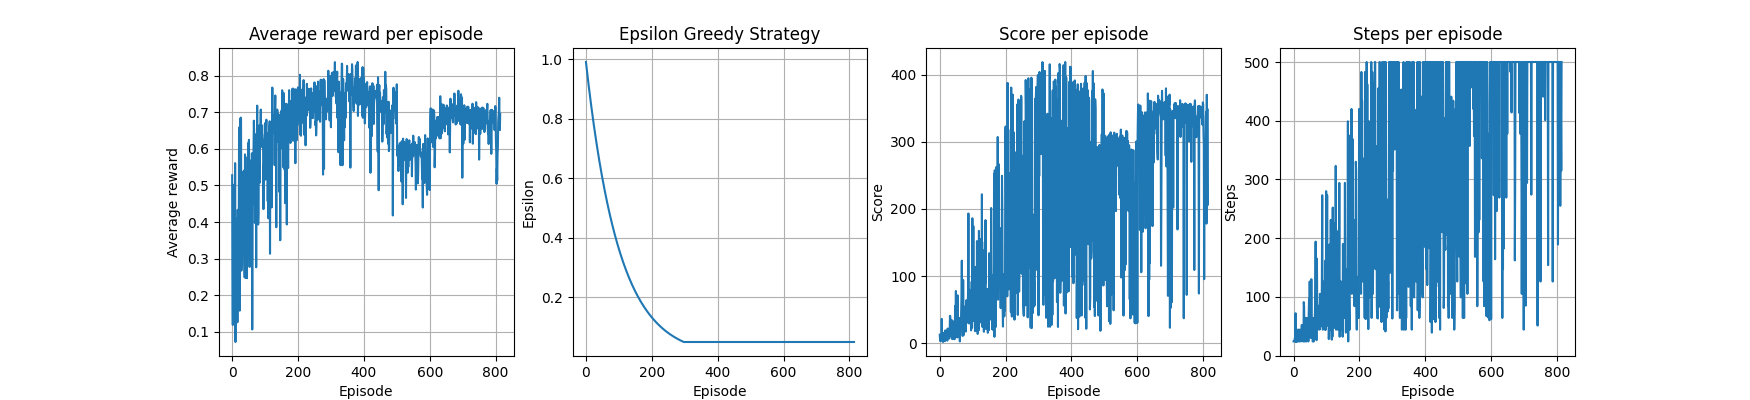
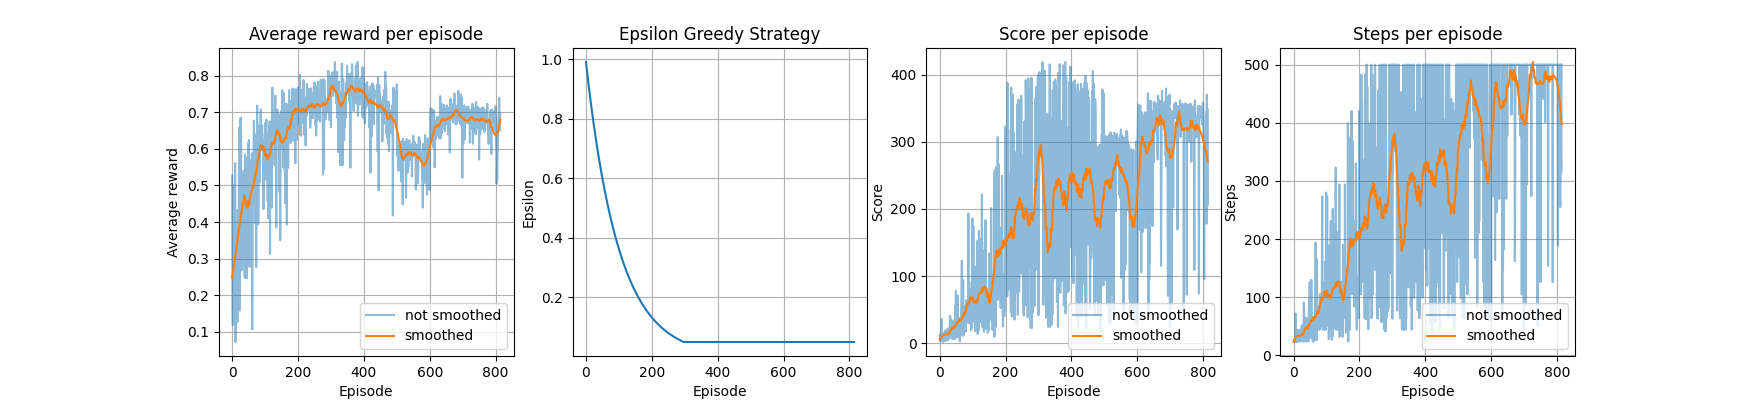
smoothing to training plots

Changed region(s): [[0.5246, 0.15, 0.8949, 0.9], [0.1234, 0.15, 0.3086, 0.81], [0.216, 0.75, 0.3086, 0.87]]

diff --git a/plotScripts/PlotTraining.py b/plotScripts/PlotTraining.py
@@ -1,7 +1,7 @@
-from re import A
 import numpy as np
 import matplotlib.pyplot as plt
 import pandas as pd
+from scipy.signal import savgol_filter
 
 import sys
 sys.path.append("../")
@@ -23,7 +23,11 @@ def main():
     x = np.arange(len(epsilon))
 
     fig, ax = plt.subplots(nrows=1, ncols=4)
-    ax[0].plot(x, avg_reward)
+    ax[0].plot(x, avg_reward, alpha=0.5, label="not smoothed")
+    avg_reward_smoothed = savgol_filter(avg_reward, 51, 3)
+    ax[0].plot(x, avg_reward_smoothed, label="smoothed")
+    ax[0].legend(loc="lower right")
+
     ax[0].set_title("Average reward per episode")
     ax[0].set_xlabel("Episode")
     ax[0].set_ylabel("Average reward")
@@ -35,19 +39,28 @@ def main():
     ax[1].set_ylabel("Epsilon")
     ax[1].grid(True)
 
-    ax[2].plot(x, score)
+    ax[2].plot(x, score, alpha=0.5, label="not smoothed")
+    score_smoothed = savgol_filter(score, 51, 3)
+    ax[2].plot(x, score_smoothed, label="smoothed")
+
     ax[2].set_title("Score per episode")
     ax[2].set_xlabel("Episode")
     ax[2].set_ylabel("Score")
     ax[2].grid(True)
+    ax[2].legend(loc="lower right")
 
-    ax[3].plot(x, stepsPerEpisode)
+    ax[3].plot(x, stepsPerEpisode, alpha=0.5, label="not smoothed")
+    stepsPerEpisode_smoothed = savgol_filter(stepsPerEpisode, 51, 3)
+    ax[3].plot(x, stepsPerEpisode_smoothed, label="smoothed")
+
     ax[3].set_title("Steps per episode")
     ax[3].set_xlabel("Episode")
     ax[3].set_ylabel("Steps")
     ax[3].grid(True)
+    ax[3].legend(loc="lower right")
 
     #plt.tight_layout()
+    
     fig.set_size_inches(w=17.5, h=4)
     plt.savefig("../media/trainingPlot_noSmoothing.png")
     plt.show()
